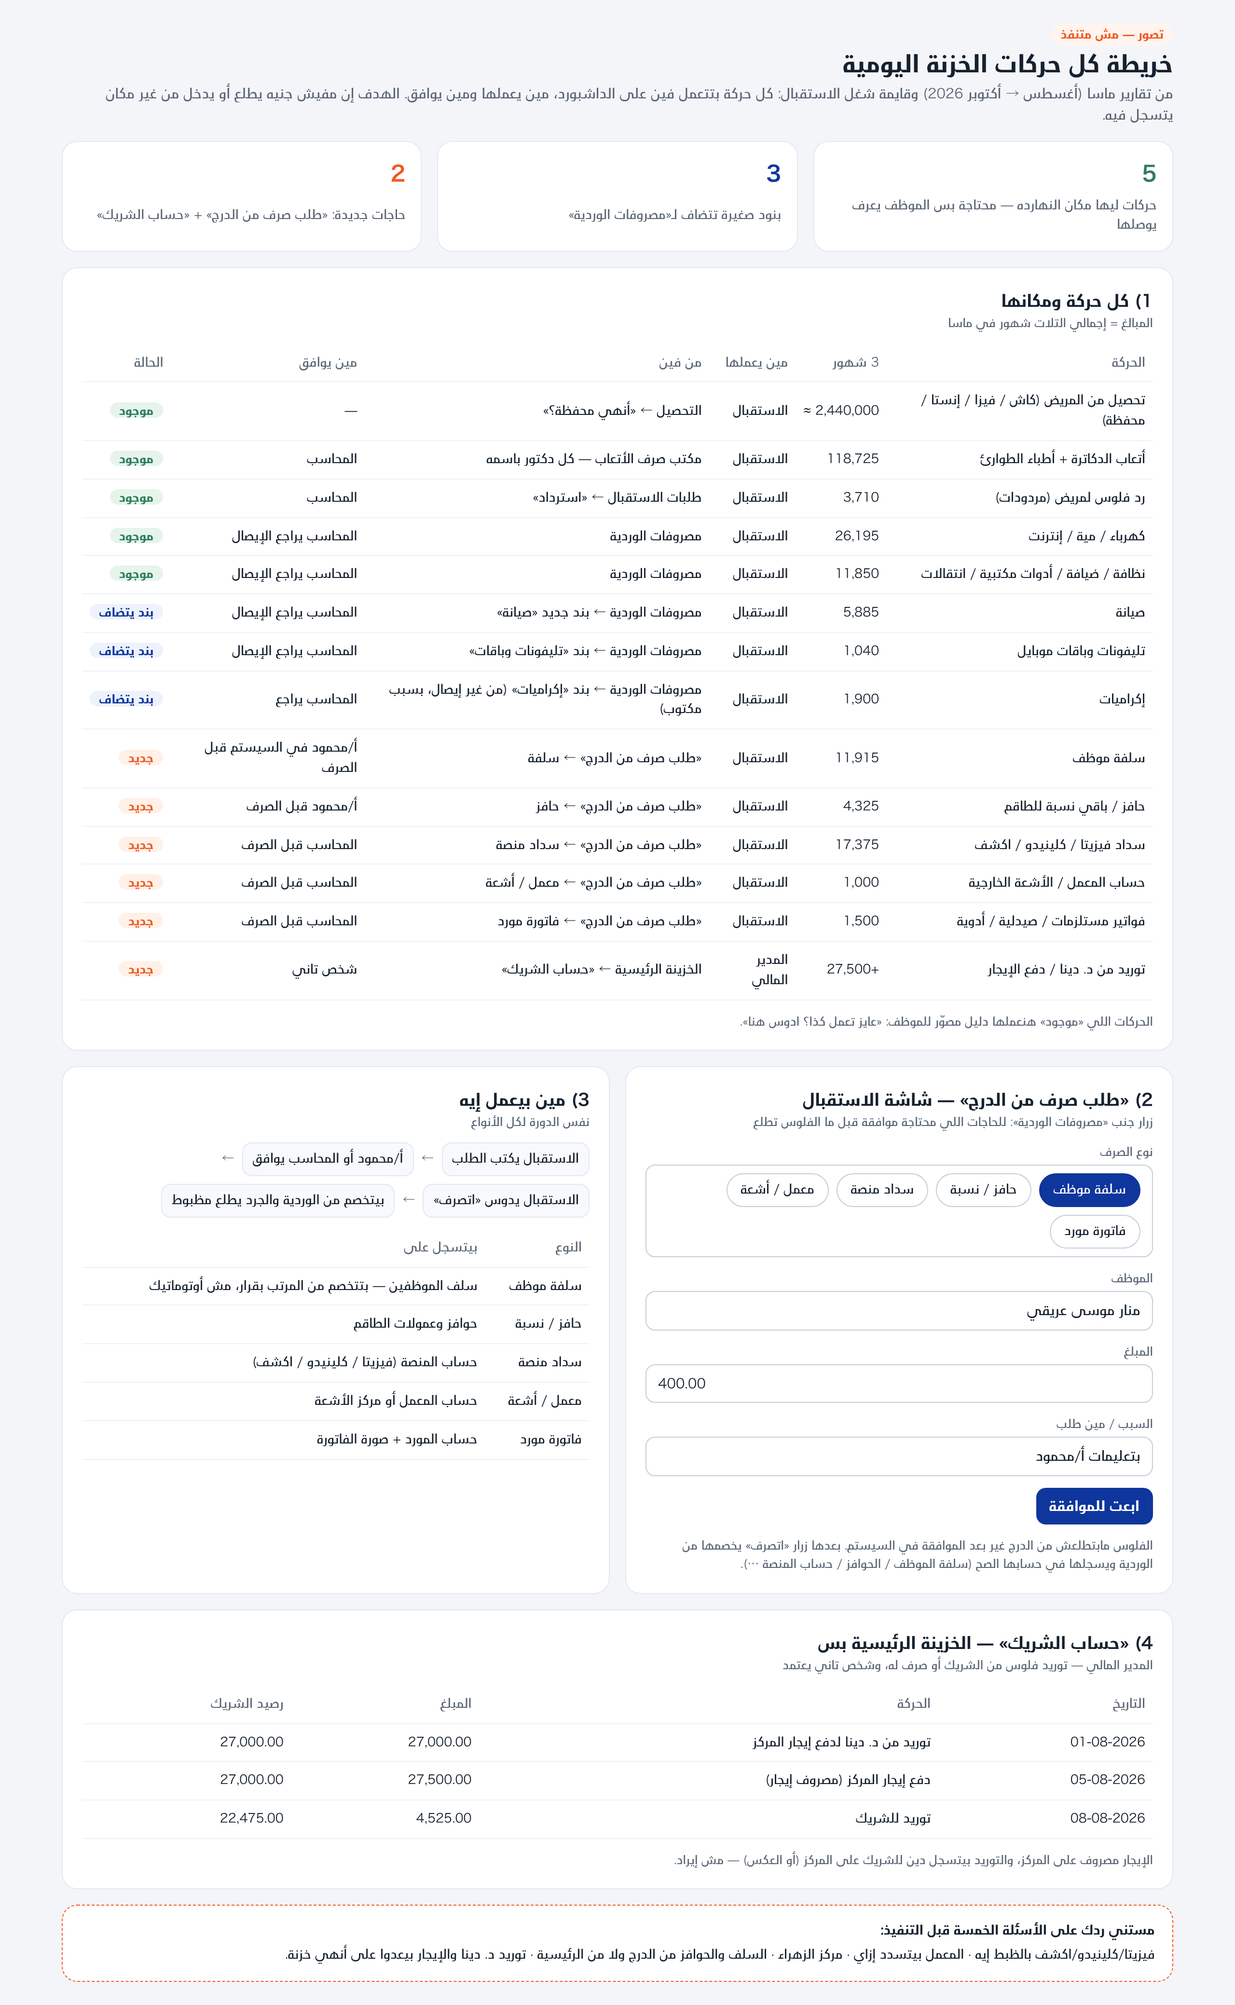
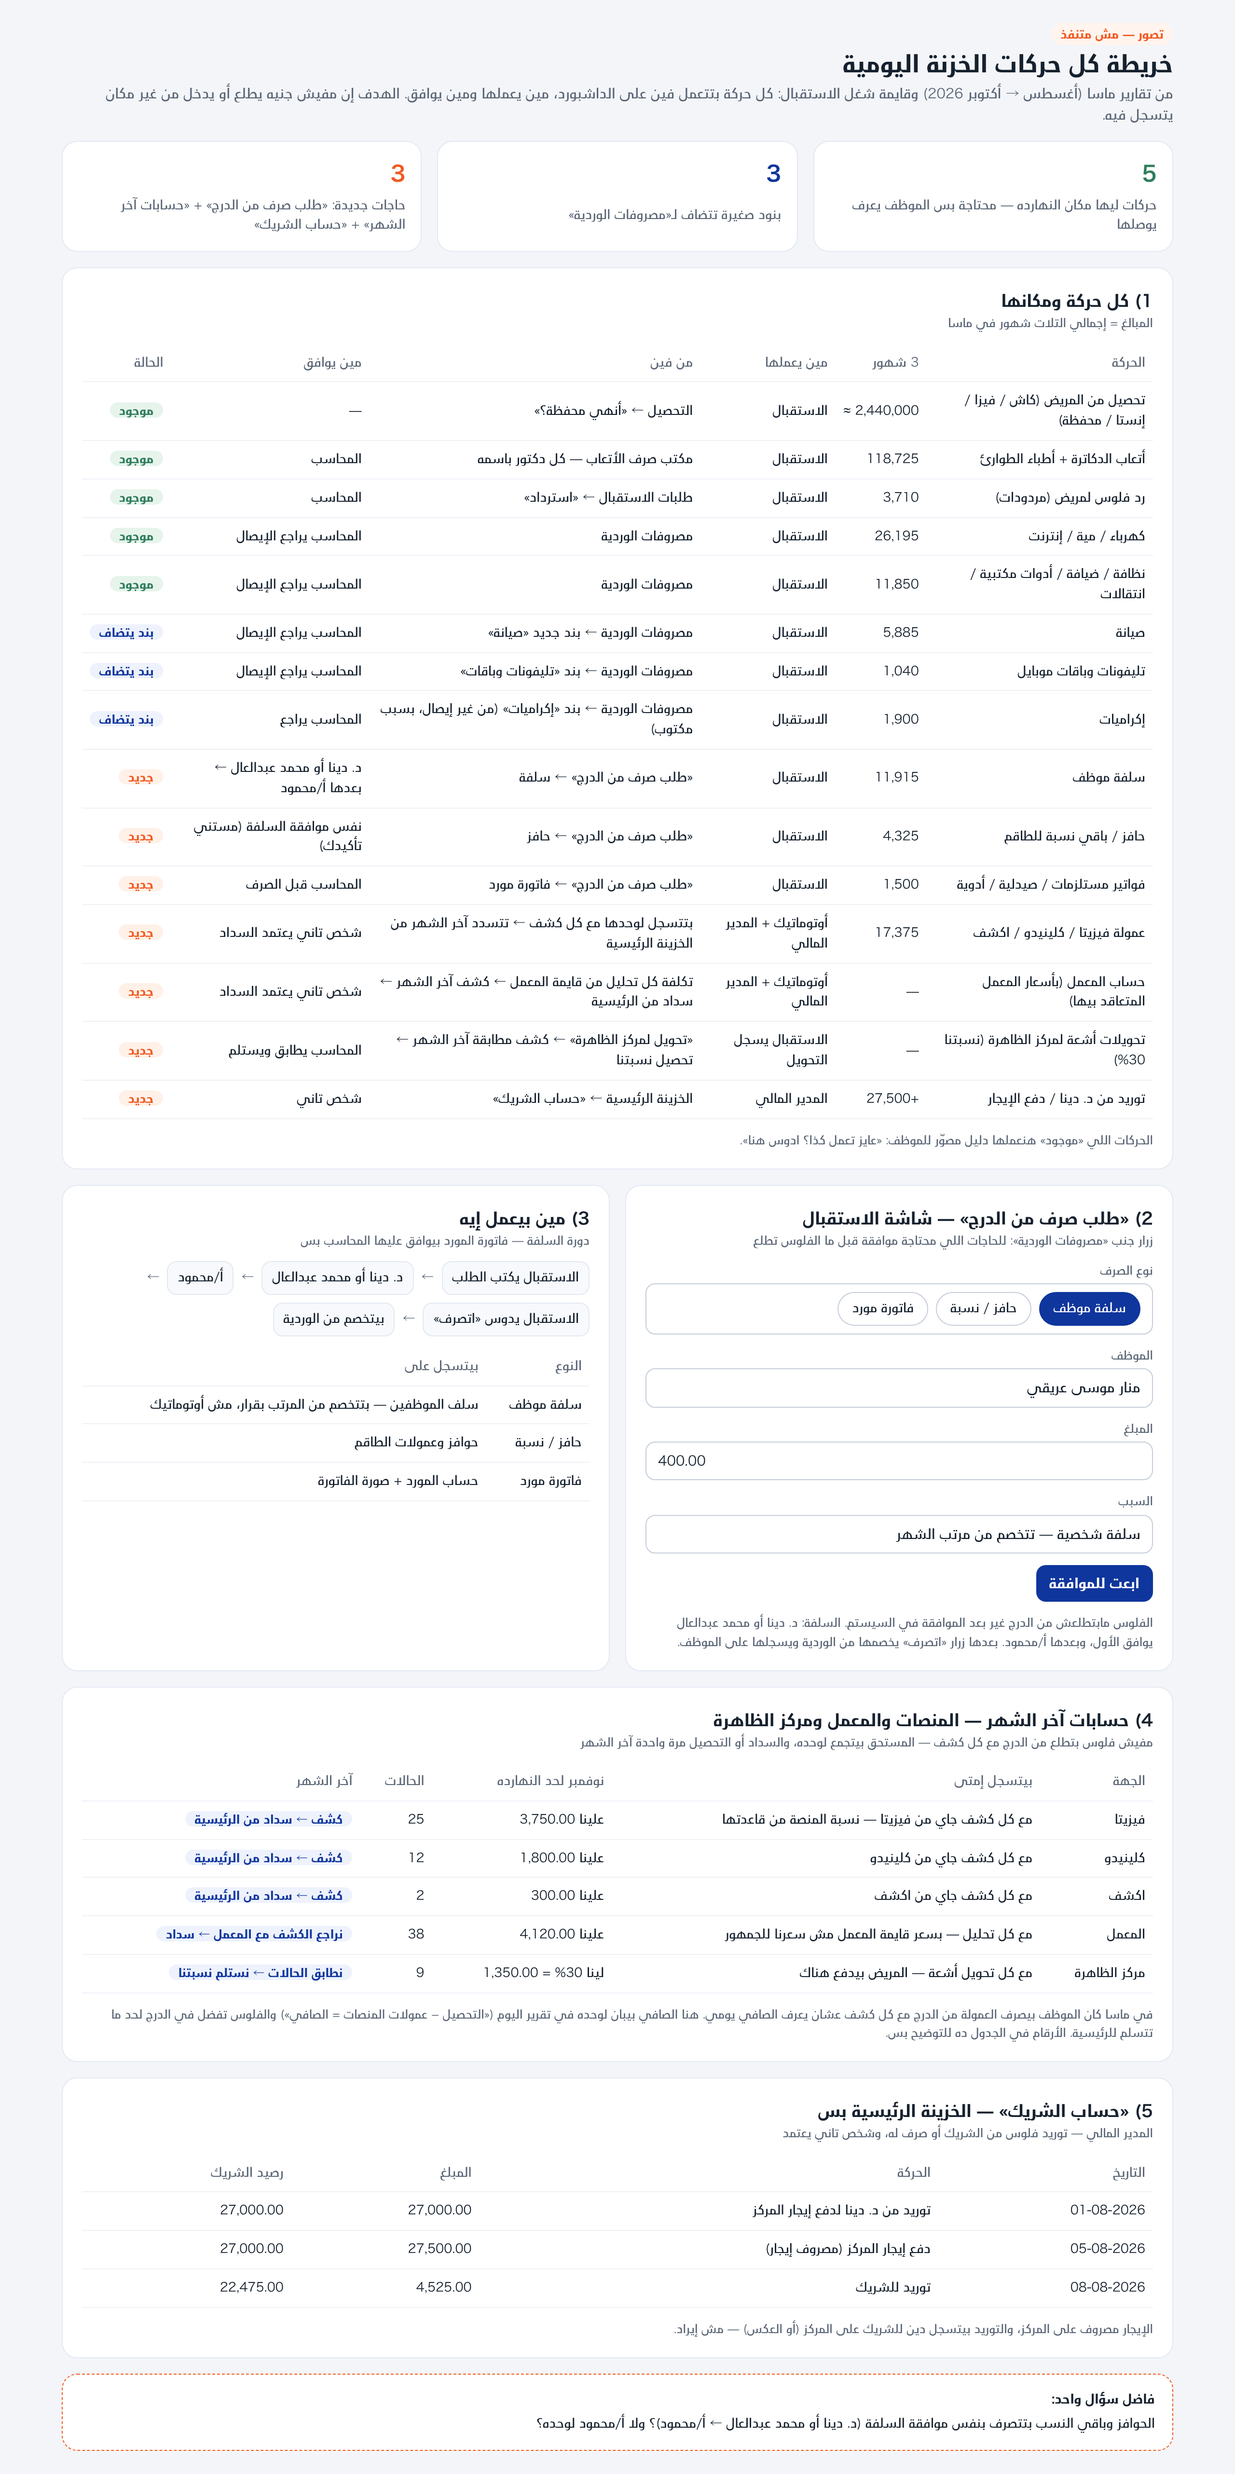
Mockup: month-end platform/lab/Al-Zahira accounts, two-step advance approval (owner answers)
Claude-Session: https://claude.ai/code/session_01UqVZHWa751JciR5NzZebwW

diff --git a/docs/ui-references/mockups/daily-movements-map.html b/docs/ui-references/mockups/daily-movements-map.html
@@ -35,7 +35,7 @@ table{width:100%;border-collapse:collapse;font-size:13px}th,td{text-align:right;
 <div class="kpis">
  <div class="kpi ok"><b>5</b><span>حركات ليها مكان النهارده — محتاجة بس الموظف يعرف يوصلها</span></div>
  <div class="kpi small"><b>3</b><span>بنود صغيرة تتضاف لـ«مصروفات الوردية»</span></div>
- <div class="kpi new"><b>2</b><span>حاجات جديدة: «طلب صرف من الدرج» + «حساب الشريك»</span></div>
+ <div class="kpi new"><b>3</b><span>حاجات جديدة: «طلب صرف من الدرج» + «حسابات آخر الشهر» + «حساب الشريك»</span></div>
 </div>
 
 <section class="card">
@@ -49,11 +49,12 @@ table{width:100%;border-collapse:collapse;font-size:13px}th,td{text-align:right;
   <tr><td>صيانة</td><td class="num">5,885</td><td>الاستقبال</td><td>مصروفات الوردية ← بند جديد «صيانة»</td><td>المحاسب يراجع الإيصال</td><td><span class="st small">بند يتضاف</span></td></tr>
   <tr><td>تليفونات وباقات موبايل</td><td class="num">1,040</td><td>الاستقبال</td><td>مصروفات الوردية ← بند «تليفونات وباقات»</td><td>المحاسب يراجع الإيصال</td><td><span class="st small">بند يتضاف</span></td></tr>
   <tr><td>إكراميات</td><td class="num">1,900</td><td>الاستقبال</td><td>مصروفات الوردية ← بند «إكراميات» (من غير إيصال، بسبب مكتوب)</td><td>المحاسب يراجع</td><td><span class="st small">بند يتضاف</span></td></tr>
-  <tr><td>سلفة موظف</td><td class="num">11,915</td><td>الاستقبال</td><td>«طلب صرف من الدرج» ← سلفة</td><td>أ/محمود في السيستم قبل الصرف</td><td><span class="st new">جديد</span></td></tr>
-  <tr><td>حافز / باقي نسبة للطاقم</td><td class="num">4,325</td><td>الاستقبال</td><td>«طلب صرف من الدرج» ← حافز</td><td>أ/محمود قبل الصرف</td><td><span class="st new">جديد</span></td></tr>
-  <tr><td>سداد فيزيتا / كلينيدو / اكشف</td><td class="num">17,375</td><td>الاستقبال</td><td>«طلب صرف من الدرج» ← سداد منصة</td><td>المحاسب قبل الصرف</td><td><span class="st new">جديد</span></td></tr>
-  <tr><td>حساب المعمل / الأشعة الخارجية</td><td class="num">1,000</td><td>الاستقبال</td><td>«طلب صرف من الدرج» ← معمل / أشعة</td><td>المحاسب قبل الصرف</td><td><span class="st new">جديد</span></td></tr>
+  <tr><td>سلفة موظف</td><td class="num">11,915</td><td>الاستقبال</td><td>«طلب صرف من الدرج» ← سلفة</td><td>د. دينا أو محمد عبدالعال ← بعدها أ/محمود</td><td><span class="st new">جديد</span></td></tr>
+  <tr><td>حافز / باقي نسبة للطاقم</td><td class="num">4,325</td><td>الاستقبال</td><td>«طلب صرف من الدرج» ← حافز</td><td>نفس موافقة السلفة (مستني تأكيدك)</td><td><span class="st new">جديد</span></td></tr>
   <tr><td>فواتير مستلزمات / صيدلية / أدوية</td><td class="num">1,500</td><td>الاستقبال</td><td>«طلب صرف من الدرج» ← فاتورة مورد</td><td>المحاسب قبل الصرف</td><td><span class="st new">جديد</span></td></tr>
+  <tr><td>عمولة فيزيتا / كلينيدو / اكشف</td><td class="num">17,375</td><td>أوتوماتيك + المدير المالي</td><td>بتتسجل لوحدها مع كل كشف ← تتسدد آخر الشهر من الخزينة الرئيسية</td><td>شخص تاني يعتمد السداد</td><td><span class="st new">جديد</span></td></tr>
+  <tr><td>حساب المعمل (بأسعار المعمل المتعاقد بيها)</td><td class="num">—</td><td>أوتوماتيك + المدير المالي</td><td>تكلفة كل تحليل من قايمة المعمل ← كشف آخر الشهر ← سداد من الرئيسية</td><td>شخص تاني يعتمد السداد</td><td><span class="st new">جديد</span></td></tr>
+  <tr><td>تحويلات أشعة لمركز الظاهرة (نسبتنا 30%)</td><td class="num">—</td><td>الاستقبال يسجل التحويل</td><td>«تحويل لمركز الظاهرة» ← كشف مطابقة آخر الشهر ← تحصيل نسبتنا</td><td>المحاسب يطابق ويستلم</td><td><span class="st new">جديد</span></td></tr>
   <tr><td>توريد من د. دينا / دفع الإيجار</td><td class="num">27,500+</td><td>المدير المالي</td><td>الخزينة الرئيسية ← «حساب الشريك»</td><td>شخص تاني</td><td><span class="st new">جديد</span></td></tr>
  </tbody></table>
  <p class="note">الحركات اللي «موجود» هنعملها دليل مصوّر للموظف: «عايز تعمل كذا؟ ادوس هنا».</p>
@@ -62,28 +63,38 @@ table{width:100%;border-collapse:collapse;font-size:13px}th,td{text-align:right;
 <div class="grid">
 <section class="card">
  <h2>2) «طلب صرف من الدرج» — شاشة الاستقبال<small>زرار جنب «مصروفات الوردية»: للحاجات اللي محتاجة موافقة قبل ما الفلوس تطلع</small></h2>
- <div class="fld"><label>نوع الصرف</label><div class="pick"><b class="on">سلفة موظف</b><b>حافز / نسبة</b><b>سداد منصة</b><b>معمل / أشعة</b><b>فاتورة مورد</b></div></div>
+ <div class="fld"><label>نوع الصرف</label><div class="pick"><b class="on">سلفة موظف</b><b>حافز / نسبة</b><b>فاتورة مورد</b></div></div>
  <div class="fld"><label>الموظف</label><div>منار موسى عريقي</div></div>
  <div class="fld"><label>المبلغ</label><div class="num">400.00</div></div>
- <div class="fld"><label>السبب / مين طلب</label><div>بتعليمات أ/محمود</div></div>
+ <div class="fld"><label>السبب</label><div>سلفة شخصية — تتخصم من مرتب الشهر</div></div>
  <button class="btn">ابعت للموافقة</button>
- <p class="note">الفلوس مابتطلعش من الدرج غير بعد الموافقة في السيستم. بعدها زرار «اتصرف» يخصمها من الوردية ويسجلها في حسابها الصح (سلفة الموظف / الحوافز / حساب المنصة …).</p>
+ <p class="note">الفلوس مابتطلعش من الدرج غير بعد الموافقة في السيستم. السلفة: د. دينا أو محمد عبدالعال يوافق الأول، وبعدها أ/محمود. بعدها زرار «اتصرف» يخصمها من الوردية ويسجلها على الموظف.</p>
 </section>
 <section class="card">
- <h2>3) مين بيعمل إيه<small>نفس الدورة لكل الأنواع</small></h2>
- <div class="flow"><span>الاستقبال يكتب الطلب</span><i>←</i><span>أ/محمود أو المحاسب يوافق</span><i>←</i><span>الاستقبال يدوس «اتصرف»</span><i>←</i><span>بيتخصم من الوردية والجرد يطلع مظبوط</span></div>
+ <h2>3) مين بيعمل إيه<small>دورة السلفة — فاتورة المورد بيوافق عليها المحاسب بس</small></h2>
+ <div class="flow"><span>الاستقبال يكتب الطلب</span><i>←</i><span>د. دينا أو محمد عبدالعال</span><i>←</i><span>أ/محمود</span><i>←</i><span>الاستقبال يدوس «اتصرف»</span><i>←</i><span>بيتخصم من الوردية</span></div>
  <table><thead><tr><th>النوع</th><th>بيتسجل على</th></tr></thead><tbody>
   <tr><td>سلفة موظف</td><td>سلف الموظفين — بتتخصم من المرتب بقرار، مش أوتوماتيك</td></tr>
   <tr><td>حافز / نسبة</td><td>حوافز وعمولات الطاقم</td></tr>
-  <tr><td>سداد منصة</td><td>حساب المنصة (فيزيتا / كلينيدو / اكشف)</td></tr>
-  <tr><td>معمل / أشعة</td><td>حساب المعمل أو مركز الأشعة</td></tr>
   <tr><td>فاتورة مورد</td><td>حساب المورد + صورة الفاتورة</td></tr>
  </tbody></table>
 </section>
 </div>
 
 <section class="card">
- <h2>4) «حساب الشريك» — الخزينة الرئيسية بس<small>المدير المالي — توريد فلوس من الشريك أو صرف له، وشخص تاني يعتمد</small></h2>
+ <h2>4) حسابات آخر الشهر — المنصات والمعمل ومركز الظاهرة<small>مفيش فلوس بتطلع من الدرج مع كل كشف — المستحق بيتجمع لوحده، والسداد أو التحصيل مرة واحدة آخر الشهر</small></h2>
+ <table><thead><tr><th>الجهة</th><th>بيتسجل إمتى</th><th>نوفمبر لحد النهارده</th><th>الحالات</th><th>آخر الشهر</th></tr></thead><tbody>
+  <tr><td>فيزيتا</td><td>مع كل كشف جاي من فيزيتا — نسبة المنصة من قاعدتها</td><td class="num">علينا 3,750.00</td><td class="num">25</td><td><span class="st small">كشف ← سداد من الرئيسية</span></td></tr>
+  <tr><td>كلينيدو</td><td>مع كل كشف جاي من كلينيدو</td><td class="num">علينا 1,800.00</td><td class="num">12</td><td><span class="st small">كشف ← سداد من الرئيسية</span></td></tr>
+  <tr><td>اكشف</td><td>مع كل كشف جاي من اكشف</td><td class="num">علينا 300.00</td><td class="num">2</td><td><span class="st small">كشف ← سداد من الرئيسية</span></td></tr>
+  <tr><td>المعمل</td><td>مع كل تحليل — بسعر قايمة المعمل مش سعرنا للجمهور</td><td class="num">علينا 4,120.00</td><td class="num">38</td><td><span class="st small">نراجع الكشف مع المعمل ← سداد</span></td></tr>
+  <tr><td>مركز الظاهرة</td><td>مع كل تحويل أشعة — المريض بيدفع هناك</td><td class="num">لينا 30% = 1,350.00</td><td class="num">9</td><td><span class="st small">نطابق الحالات ← نستلم نسبتنا</span></td></tr>
+ </tbody></table>
+ <p class="note">في ماسا كان الموظف بيصرف العمولة من الدرج مع كل كشف عشان يعرف الصافي يومي. هنا الصافي بيبان لوحده في تقرير اليوم («التحصيل − عمولات المنصات = الصافي») والفلوس تفضل في الدرج لحد ما تتسلم للرئيسية. الأرقام في الجدول ده للتوضيح بس.</p>
+</section>
+
+<section class="card">
+ <h2>5) «حساب الشريك» — الخزينة الرئيسية بس<small>المدير المالي — توريد فلوس من الشريك أو صرف له، وشخص تاني يعتمد</small></h2>
  <table><thead><tr><th>التاريخ</th><th>الحركة</th><th>المبلغ</th><th>رصيد الشريك</th></tr></thead><tbody>
   <tr><td class="num">01-08-2026</td><td>توريد من د. دينا لدفع إيجار المركز</td><td class="num">27,000.00</td><td class="num">27,000.00</td></tr>
   <tr><td class="num">05-08-2026</td><td>دفع إيجار المركز (مصروف إيجار)</td><td class="num">27,500.00</td><td class="num">27,000.00</td></tr>
@@ -92,5 +103,5 @@ table{width:100%;border-collapse:collapse;font-size:13px}th,td{text-align:right;
  <p class="note">الإيجار مصروف على المركز، والتوريد بيتسجل دين للشريك على المركز (أو العكس) — مش إيراد.</p>
 </section>
 
-<div class="q"><b>مستني ردك على الأسئلة الخمسة قبل التنفيذ:</b><span>فيزيتا/كلينيدو/اكشف بالظبط إيه · المعمل بيتسدد إزاي · مركز الزهراء · السلف والحوافز من الدرج ولا من الرئيسية · توريد د. دينا والإيجار بيعدوا على أنهي خزنة.</span></div>
+<div class="q"><b>فاضل سؤال واحد:</b><span>الحوافز وباقي النسب بتتصرف بنفس موافقة السلفة (د. دينا أو محمد عبدالعال ← أ/محمود)؟ ولا أ/محمود لوحده؟</span></div>
 </div></body></html>
